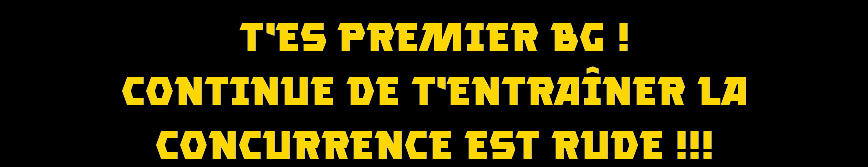
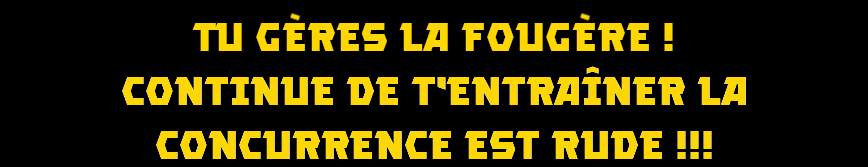
Modified version with tab title for setting page and new sentence for the first player

Changed region(s): [[0.2177, 0.0898, 0.7776, 0.3293]]

diff --git a/flappysheep/code2.js b/flappysheep/code2.js
@@ -366,7 +366,7 @@ if( gdjs.GameCode.condition1IsTrue_1.val ) {
 }if ( gdjs.GameCode.condition0IsTrue_0.val ) {
 {
 {gdjs.GameCode.conditionTrue_1 = gdjs.GameCode.condition1IsTrue_0;
-gdjs.GameCode.conditionTrue_1.val = runtimeScene.getOnceTriggers().triggerOnce(10616132);
+gdjs.GameCode.conditionTrue_1.val = runtimeScene.getOnceTriggers().triggerOnce(10920092);
 }
 }}
 if (gdjs.GameCode.condition1IsTrue_0.val) {
@@ -492,7 +492,7 @@ if( gdjs.GameCode.condition1IsTrue_1.val ) {
 }if ( gdjs.GameCode.condition1IsTrue_0.val ) {
 {
 {gdjs.GameCode.conditionTrue_1 = gdjs.GameCode.condition2IsTrue_0;
-gdjs.GameCode.conditionTrue_1.val = runtimeScene.getOnceTriggers().triggerOnce(10621108);
+gdjs.GameCode.conditionTrue_1.val = runtimeScene.getOnceTriggers().triggerOnce(10925068);
 }
 }}
 }
@@ -606,7 +606,7 @@ gdjs.GameCode.condition2IsTrue_0.val = gdjs.evtTools.runtimeScene.timerElapsedTi
 }if ( gdjs.GameCode.condition2IsTrue_0.val ) {
 {
 {gdjs.GameCode.conditionTrue_1 = gdjs.GameCode.condition3IsTrue_0;
-gdjs.GameCode.conditionTrue_1.val = runtimeScene.getOnceTriggers().triggerOnce(10628148);
+gdjs.GameCode.conditionTrue_1.val = runtimeScene.getOnceTriggers().triggerOnce(10932108);
 }
 }}
 }
@@ -671,7 +671,7 @@ for(var i = 0, k = 0, l = gdjs.GameCode.GDPipe_95fullObjects2.length;i<l;++i) {
 gdjs.GameCode.GDPipe_95fullObjects2.length = k;}if ( gdjs.GameCode.condition1IsTrue_0.val ) {
 {
 {gdjs.GameCode.conditionTrue_1 = gdjs.GameCode.condition2IsTrue_0;
-gdjs.GameCode.conditionTrue_1.val = runtimeScene.getOnceTriggers().triggerOnce(10630604);
+gdjs.GameCode.conditionTrue_1.val = runtimeScene.getOnceTriggers().triggerOnce(10934564);
 }
 }}
 }
@@ -1000,7 +1000,7 @@ gdjs.copyArray(gdjs.GameCode.GDPipe_95fullObjects1_1final, gdjs.GameCode.GDPipe_
 }if ( gdjs.GameCode.condition1IsTrue_0.val ) {
 {
 {gdjs.GameCode.conditionTrue_1 = gdjs.GameCode.condition2IsTrue_0;
-gdjs.GameCode.conditionTrue_1.val = runtimeScene.getOnceTriggers().triggerOnce(10643620);
+gdjs.GameCode.conditionTrue_1.val = runtimeScene.getOnceTriggers().triggerOnce(10947580);
 }
 }}
 }
@@ -1031,7 +1031,7 @@ gdjs.GameCode.condition0IsTrue_0.val = gdjs.evtTools.common.getVariableNumber(ru
 }if ( gdjs.GameCode.condition0IsTrue_0.val ) {
 {
 {gdjs.GameCode.conditionTrue_1 = gdjs.GameCode.condition1IsTrue_0;
-gdjs.GameCode.conditionTrue_1.val = runtimeScene.getOnceTriggers().triggerOnce(10645732);
+gdjs.GameCode.conditionTrue_1.val = runtimeScene.getOnceTriggers().triggerOnce(10949692);
 }
 }}
 if (gdjs.GameCode.condition1IsTrue_0.val) {

diff --git a/flappysheep/code0.js b/flappysheep/code0.js
@@ -305,7 +305,7 @@ gdjs.MenuCode.condition0IsTrue_2.val = gdjs.evtTools.common.getVariableNumber(ru
 }if ( gdjs.MenuCode.condition0IsTrue_2.val ) {
 {
 {gdjs.MenuCode.conditionTrue_3 = gdjs.MenuCode.condition1IsTrue_2;
-gdjs.MenuCode.conditionTrue_3.val = runtimeScene.getOnceTriggers().triggerOnce(10498844);
+gdjs.MenuCode.conditionTrue_3.val = runtimeScene.getOnceTriggers().triggerOnce(10801532);
 }
 }}
 gdjs.MenuCode.conditionTrue_2.val = true && gdjs.MenuCode.condition0IsTrue_2.val && gdjs.MenuCode.condition1IsTrue_2.val;
@@ -322,7 +322,7 @@ gdjs.copyArray(gdjs.MenuCode.GDfond_95pseudoObjects2_1final, gdjs.MenuCode.GDfon
 }if ( gdjs.MenuCode.condition0IsTrue_0.val ) {
 {
 {gdjs.MenuCode.conditionTrue_1 = gdjs.MenuCode.condition1IsTrue_0;
-gdjs.MenuCode.conditionTrue_1.val = runtimeScene.getOnceTriggers().triggerOnce(10497108);
+gdjs.MenuCode.conditionTrue_1.val = runtimeScene.getOnceTriggers().triggerOnce(10799172);
 }
 }}
 if (gdjs.MenuCode.condition1IsTrue_0.val) {
@@ -882,7 +882,7 @@ gdjs.copyArray(runtimeScene.getObjects("nom_pseudo"), gdjs.MenuCode.GDnom_95pseu
 gdjs.MenuCode.condition0IsTrue_0.val = false;
 {
 {gdjs.MenuCode.conditionTrue_1 = gdjs.MenuCode.condition0IsTrue_0;
-gdjs.MenuCode.conditionTrue_1.val = runtimeScene.getOnceTriggers().triggerOnce(10508332);
+gdjs.MenuCode.conditionTrue_1.val = runtimeScene.getOnceTriggers().triggerOnce(10811004);
 }
 }if (gdjs.MenuCode.condition0IsTrue_0.val) {
 {gdjs.evtTools.network.sendAsyncRequest("https://script.google.com/macros/s/AKfycbx8YMBggbLHAMGp4FVMlKVNdKseQ2L7XOtUiFX0WgUzaVUn_IY/exec?id=Negatif Man" + "&score=" + "-1", "", "GET", "", runtimeScene.getVariables().get("Raw_ranking"), gdjs.VariablesContainer.badVariable);

diff --git a/flappysheep/code4.js b/flappysheep/code4.js
@@ -79,6 +79,19 @@ gdjs.Param_232tresCode.condition0IsTrue_0.val = false;
 {
 gdjs.Param_232tresCode.condition0IsTrue_0.val = gdjs.evtTools.runtimeScene.sceneJustBegins(runtimeScene);
 }if (gdjs.Param_232tresCode.condition0IsTrue_0.val) {
+{gdjs.evtTools.window.setWindowTitle(runtimeScene, "Flappy Sheep - KamaTA");
+}}
+
+}
+
+
+{
+
+
+gdjs.Param_232tresCode.condition0IsTrue_0.val = false;
+{
+gdjs.Param_232tresCode.condition0IsTrue_0.val = gdjs.evtTools.runtimeScene.sceneJustBegins(runtimeScene);
+}if (gdjs.Param_232tresCode.condition0IsTrue_0.val) {
 gdjs.copyArray(runtimeScene.getObjects("m4"), gdjs.Param_232tresCode.GDm4Objects1);
 gdjs.copyArray(runtimeScene.getObjects("m5"), gdjs.Param_232tresCode.GDm5Objects1);
 gdjs.copyArray(runtimeScene.getObjects("m6"), gdjs.Param_232tresCode.GDm6Objects1);

diff --git a/flappysheep/index.html b/flappysheep/index.html
@@ -85,8 +85,8 @@
 	<script src="code4.js" crossorigin="anonymous"></script>
 	<script src="data.js" crossorigin="anonymous"></script>
 
-    <link rel="icon" href="android-icon-192.png"></link>
     <title>Flappy Sheep - KamaTA</title>
+    <link rel="icon" href="android-icon-192.png"></link>
 
 </head>
 <body>
